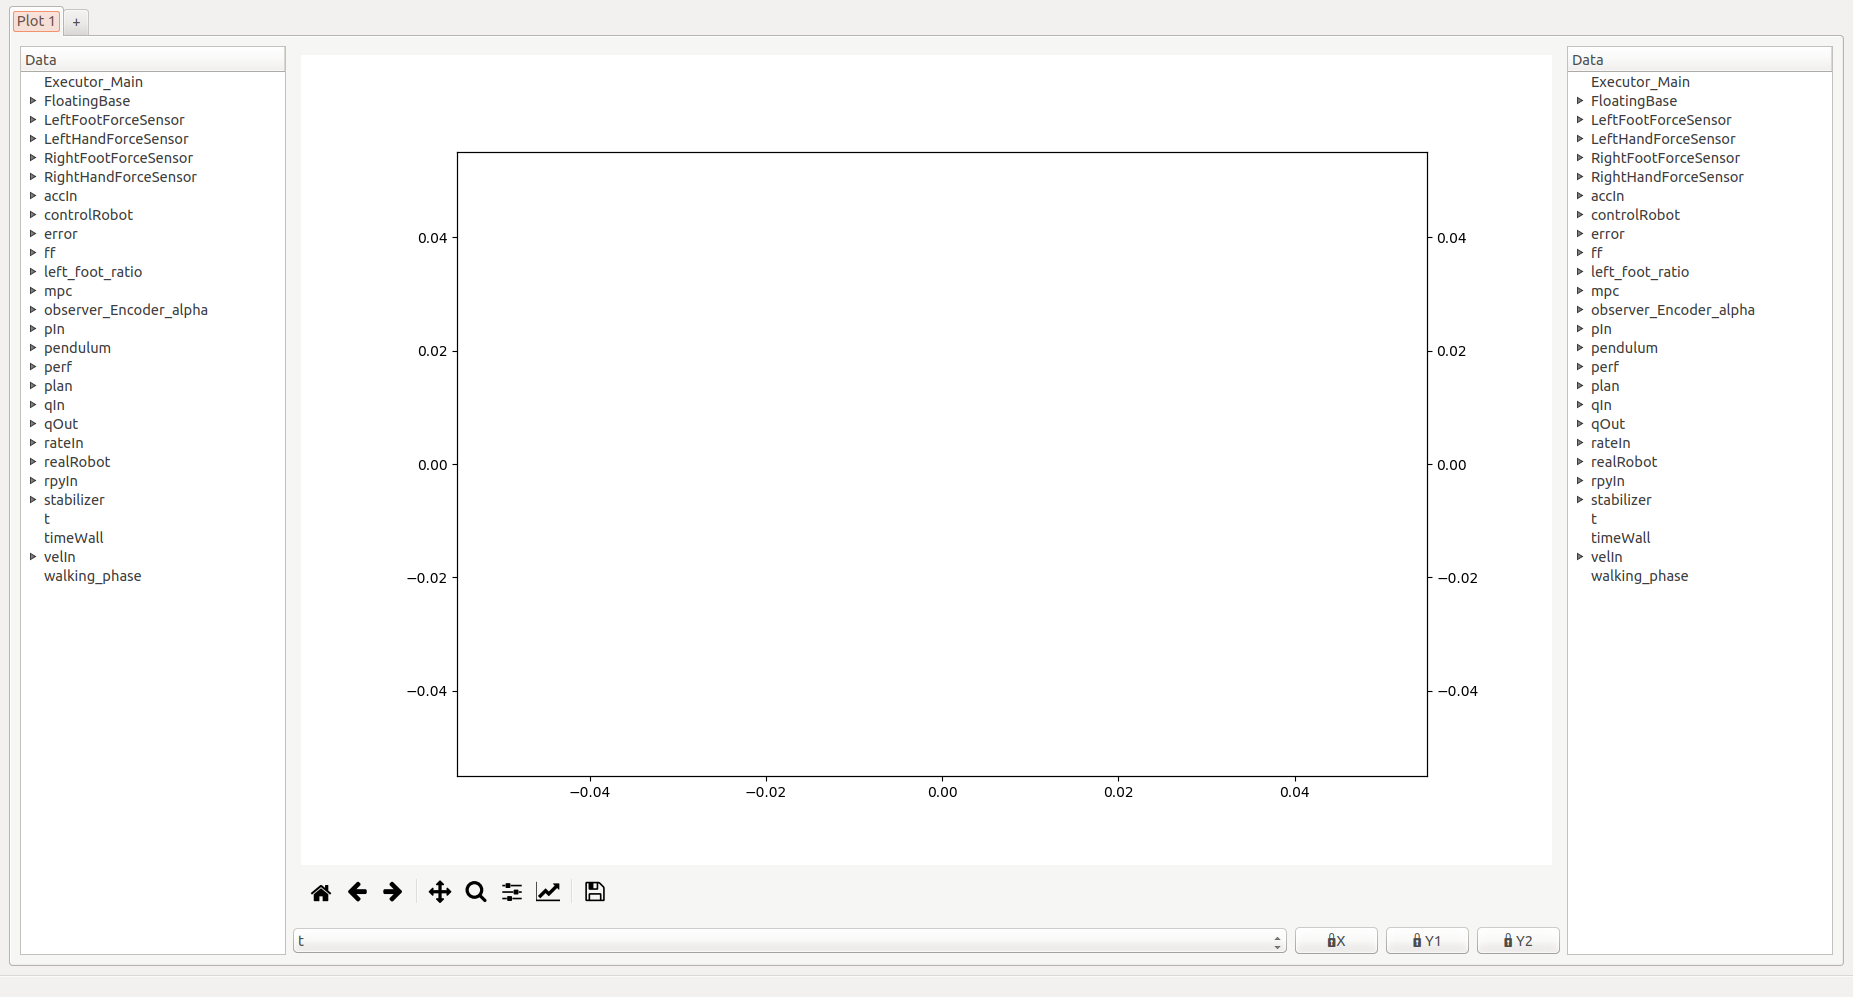
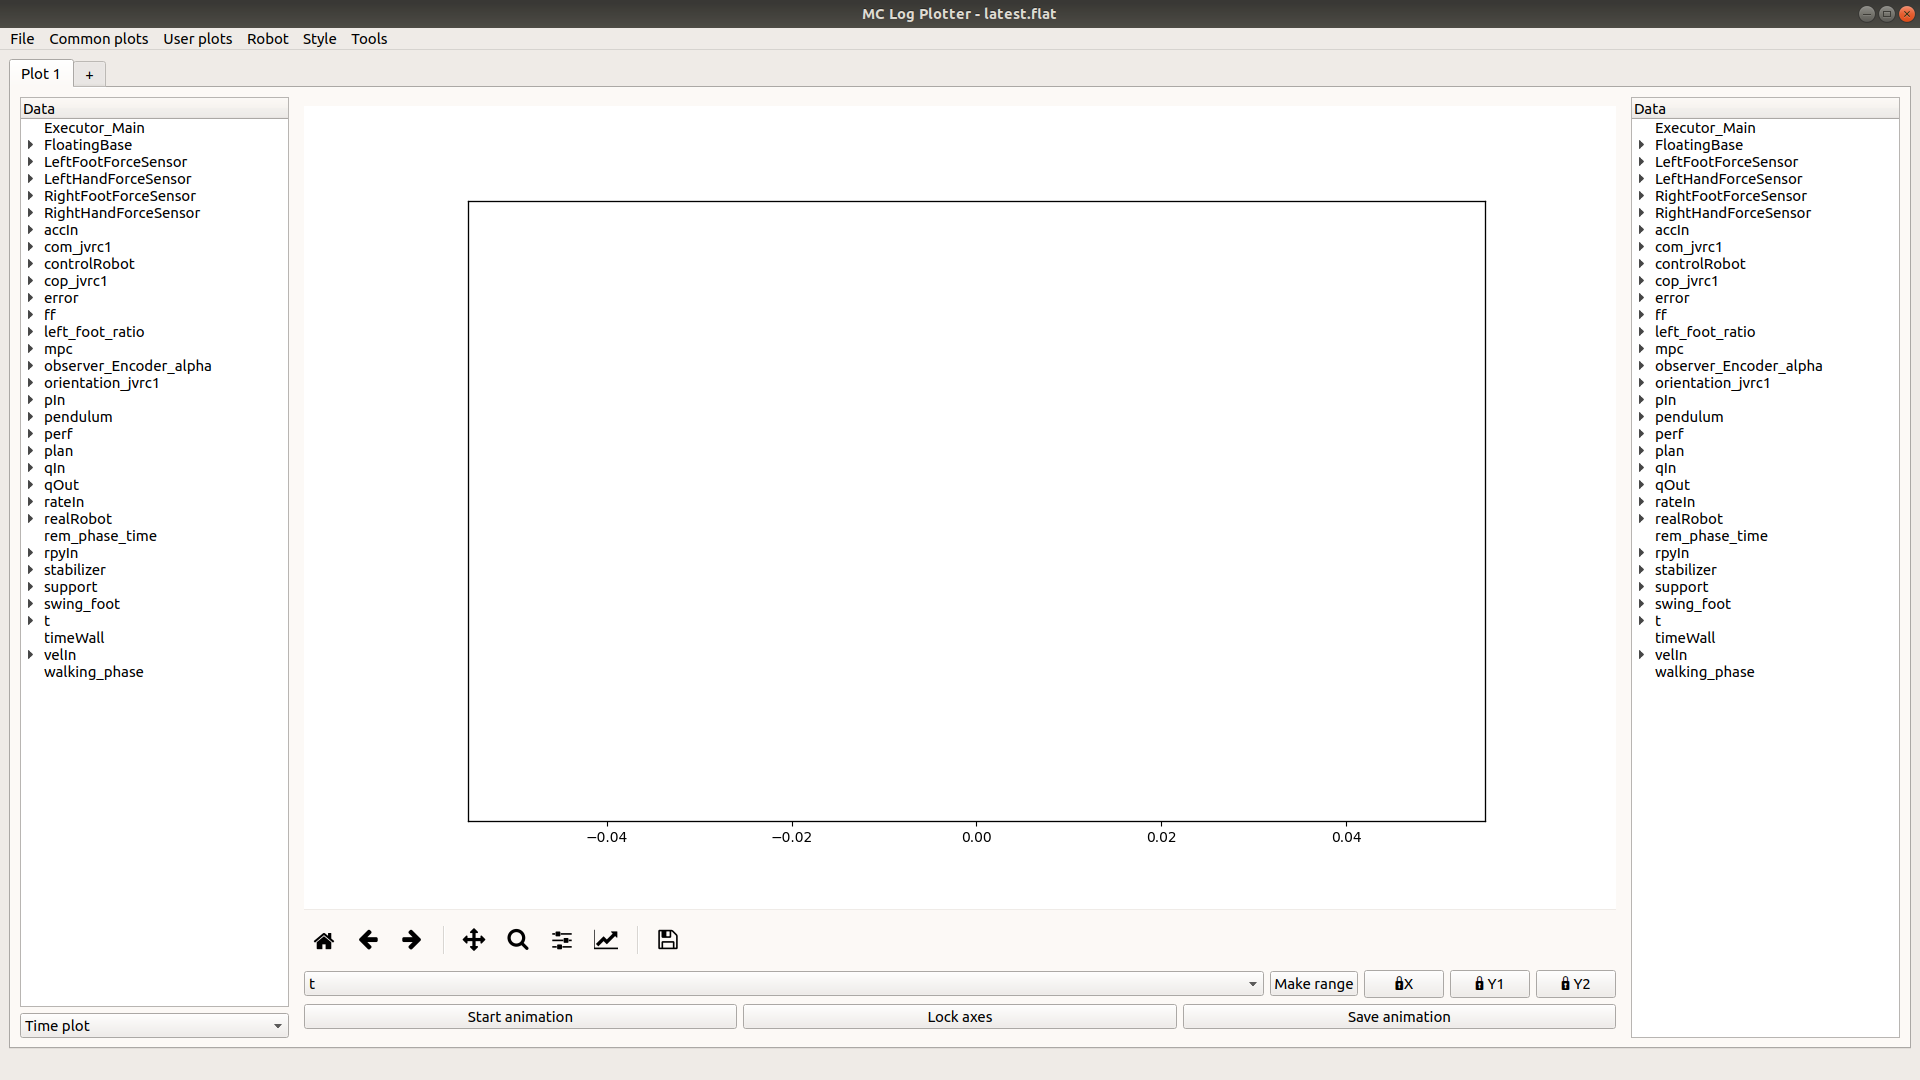
[doc] Add some information related to new functions in mc_log_ui
Sneak-in some typos reported by S. Caron :)

diff --git a/doc/robots.html b/doc/robots.html
@@ -38,7 +38,7 @@ title: Robots
 
 <h3>Use your own robot</h3>
 
-<p>All you need to get started is an URDF file. Check-out this <a href="{{site.baseurl}}/tutorials/advanced/new-robot.html">tutorial</a> for more information.</p>
+<p>All you need to get started is a URDF file. Check out this <a href="{{site.baseurl}}/tutorials/advanced/new-robot.html">tutorial</a> for more information.</p>
 
 </div>
 

diff --git a/doc/tutorials/tools/mc_log_ui.md b/doc/tutorials/tools/mc_log_ui.md
@@ -17,19 +17,49 @@ It should look like this:
 
 <em>Note: some menus and operations described in the next sections are only available if you have mc\_rtc Python bindings</em>
 
-### Basic operations
+### Plotting mode
 
-The panels on the left and the right of the plot let you select which data to display. You can select a grouped entry (e.g. `LeftFootForceSensor`) or a single entry (e.g. `LeftForceSensors -> fz`).
+The selector in the bottom left of the interface lets you select between three plotting modes:
 
-The selector under the plot let you select the abscissa for the graph. It defaults to `t` (i.e. the controller time). The buttons next to this selector let you lock the X axis, the left side Y axis and the right side Y axis respectively. Otherwise the limits adapt to the selected data. Note that the GUI doesn't try to align the left and right side Y-axes even when the ranges are similar.
+#### Time plot
 
-You can open a new graph by clicking the `+` button next to the current tab title.
+In this mode you select data that shares the same abscissa (generally time hence the name), the panels on the left and the right of the plot let you select which data to display. You can select a grouped entry (e.g. `LeftFootForceSensor`) or a single entry (e.g. `LeftFootForceSensor -> fz`).
 
-### Changing the axis limits
+Plots can be removed by clicking the same data entry again.
 
-The button above the abscissa selector let you manipulate the graph view.
+In this mode, selecting string entries (typically, the current state output of an FSM) will draw colored background patches according to the current value of said string. Only one string can be visible at a given time.
 
-For more precise manipulations, you can change the range of the X and Y axis by using the `Ctrl+A` shortcut to open an axis menu. Setting manual limits will automatically lock the appropriate axis.
+#### X/Y plot
+
+In this mode, `Add XY plots` buttons on the left and right of the plot will open a menu to let you select two data entries that will be plotted on the X and Y axis respectively. You can select a grouped entry if it has exactly two entries (i.e. selecting `LeftFoot -> CoP` is the same as selecting `LeftFoot -> CoP -> x` and `LeftFoot -> CoP -> y` individually). A label can be set at this point or later in the sytle menu.
+
+Plots can be removed by clicking the `Remove XY plot(s)` button on the left or right and selecting the plots to remove.
+
+#### 3D plot
+
+In this mode, an `Add 3D plot` button on the left will open a menu to let you select three data entries that will be plotted on the X, Y and Z axis respectively. You can select a grouped entry if it has exactly three entries (i.e. selecting `CoM` is the same as selecting `CoM -> x`, `CoM -> y` and `CoM -> z` individually). A label can be set at this point or later in the style menu.
+
+Plots can be removed by clicking the `Remove 3D plot(s)` button and selecting the plots to remove.
+
+You can use the mouse to manipulate the view in 3D mode.
+
+### Time range selector, range making and axis lock
+
+The selector under the plot lets you select the time range under which you wish to examine the log. In time plot mode, it simply selects the abscissa for the graph. In X/Y plot and 3D plot modes it will act as a filter (i.e. display the selected data when the selected range is active).
+
+The `Make range` button lets you select arbitrary data to create time ranges when the data is in the log. For example, if `com_x` is present if `5 < t < 10` and `15 < t < 20` then it will generate `t_com_x_1` and `t_com_x_2` corresponding to these ranges. For strings (typically `Executor_*` from the FSM), the selection can be refined for specific values of the string (so you can typically generate ranges for specific states).
+
+Finally, three buttons beside the `Make range` button let you lock the X axis, the left side Y axis and the right side Y axis (or Z axis in 3D mode) respectively. Otherwise, the limits adapt to the selected data. Note that the GUI will not try to align the left and the right side Y axes even when the ranges are similar.
+
+### Animation
+
+The three buttons below the range selector relate to the animation:
+
+`Start animation` will start an animation based on the current time range selected. By default, the axes limits will adapt during the animation.
+
+If the animation is not running, `Lock axes` will lock the axes so that the whole final graph in the animation is visible. Otherwise, it will lock the axes to the current view.
+
+`Save animation` will export the animation to an mp4 file. Note that no progress bar appears and it could take a while to save the animation.
 
 ### Common plots menu
 
@@ -47,7 +77,7 @@ Such plots are saved in a JSON format under `$HOME/.config/mc_log_ui/custom_plot
 
 ### Robot menu
 
-This menu lets you select with which robot the plot was generated. The main effect is to display user-friendly names in joint-related entries (e.g. instead of `qIn_0` you will get `qIn_R_HIP_P` with JVRC1 but `qIn_RLEG_JOINT0` with HRP2DRC.
+This menu lets you select with which robot the log was generated. The main effect is to display user-friendly names in joint-related entries (e.g. instead of `qIn_0` you will get `qIn_R_HIP_P` with JVRC1 but `qIn_RLEG_JOINT0` with HRP2DRC.
 
 The robot selection is saved upon change and restored when you open the UI again. Unless you work with a lot of robots it is likely you will change it once.
 
@@ -58,17 +88,20 @@ The style menu lets you set many styling options for your graph, it has several 
 - `Graph`: lets you choose the line color and line style for each plot;
 - `Grid`: lets you enable a grid aligned with the left and/or right axis;
 - `Labels/Title/Fonts`: lets you add labels to the axes, a title to the graph and choose the police size for those;
+- `Colors selection`: lets you choose which colors are picked to display curves, you can either choose an existing color set (which have a limited number of colors available) or build your own selection;
+- `Polygons colors selection`: lets you choose the colors that are used when displaying string entries in time-plot mode;
 
 _Note: style options are also saved when you save a user plot_
 
-### Other shortcuts
+### Shortcuts
 
-Additional shortcuts are provided to navigate through tabs:
+The following keyboard shortcuts can be used within the interface:
 
 - `Ctrl+T`: create a new tab
 - `Ctrl+W`: close the current tab
 - `Ctrl+PageDown`: next tab
 - `Ctrl+PageUp`: previous tab
+- `Ctrl+A`: Axis limits menu
 
 ### Saving a figure
 
